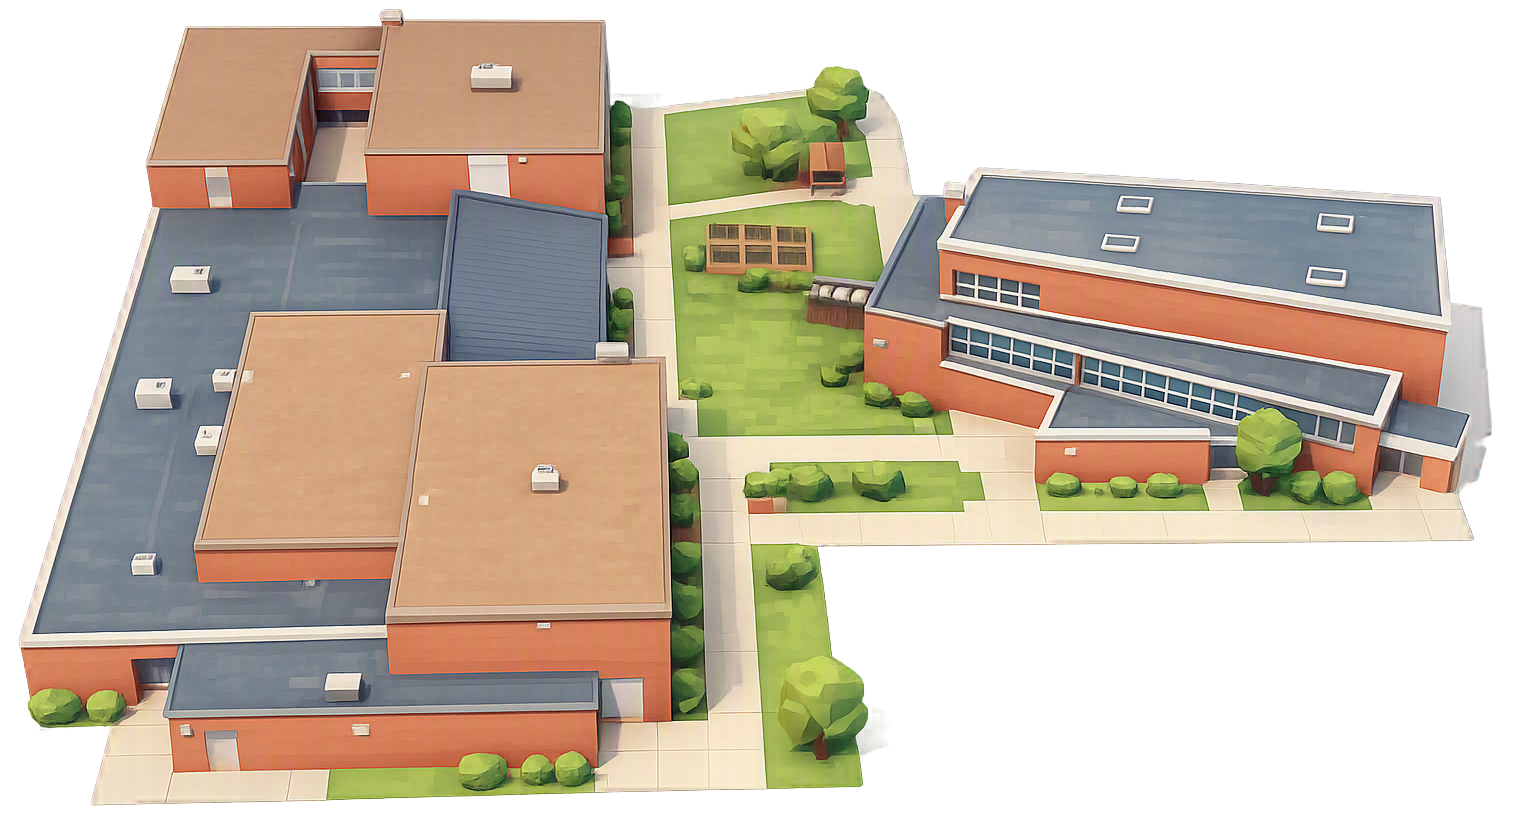
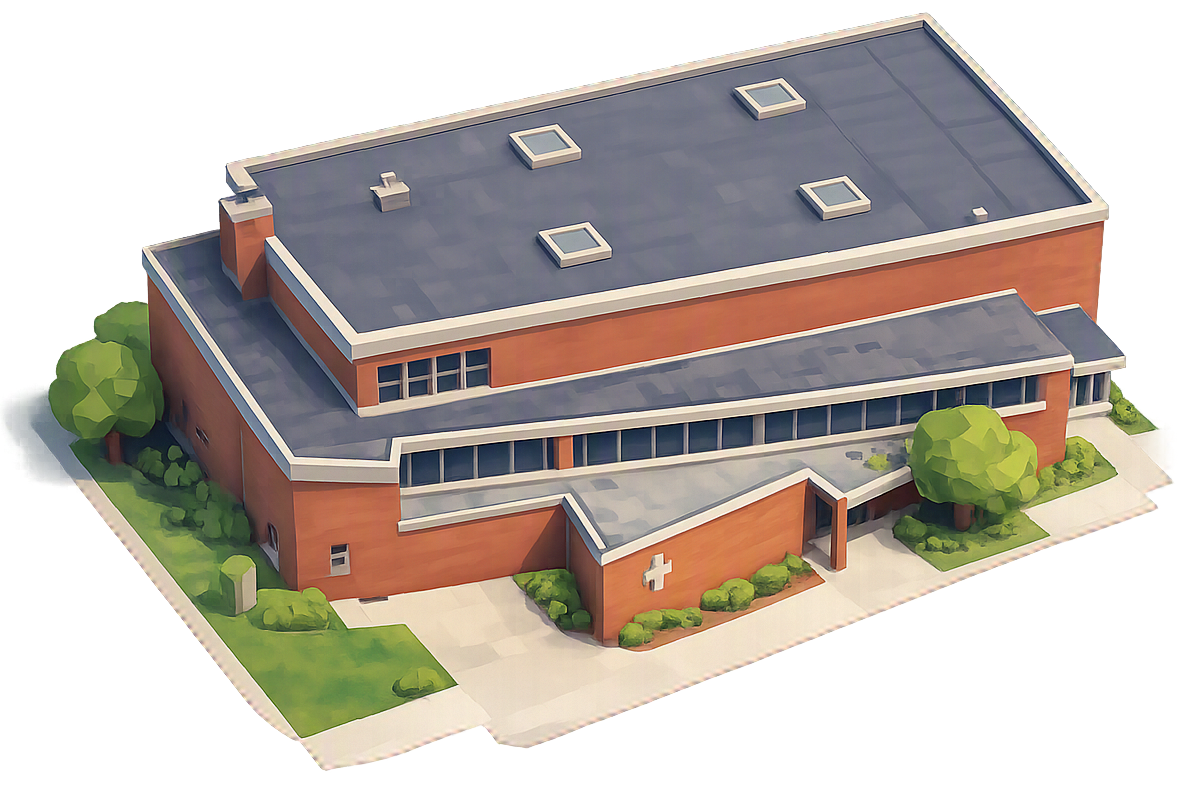
Added small tweaks

diff --git a/src/components/ChurchMap.jsx b/src/components/ChurchMap.jsx
@@ -1,4 +1,5 @@
 import { useEffect, useRef, useState } from 'react'
+import { createPortal } from 'react-dom'
 import { MapContainer, TileLayer, Marker, Tooltip, useMap } from 'react-leaflet'
 import L from 'leaflet'
 import { supabase } from '../supabaseClient'
@@ -162,7 +163,12 @@ function ChurchMarker({ church, onSelect }) {
 // Order matches DAY_LABELS' indices to whatever day_of_week convention
 // the mass_times table ends up using (0 = Sunday, matching JS
 // Date.getDay()) — see the architecture discussion in chat.
-const DAY_LABELS = ['Sunday', 'Monday', 'Tuesday', 'Wednesday', 'Thursday', 'Friday', 'Saturday']
+// Displayed Monday-first with Sunday at the bottom. DAY_INDEXES maps
+// each position here to its actual day_of_week value in the database
+// (0 = Sunday, matching JS's Date.getDay()) — the display order and
+// the storage order are intentionally different.
+const DAY_LABELS = ['Monday', 'Tuesday', 'Wednesday', 'Thursday', 'Friday', 'Saturday', 'Sunday']
+const DAY_INDEXES = [1, 2, 3, 4, 5, 6, 0]
 
 // iPadOS reports navigator.platform as 'MacIntel' just like a real Mac
 // — maxTouchPoints is what actually distinguishes the two, since a
@@ -223,28 +229,42 @@ function formatMonthYear(dateStr) {
 // keyed by day_of_week (0 = Sunday, matching DAY_LABELS and JS's
 // Date.getDay()) to an array of already-formatted time strings.
 function ChurchCard({ church, onClose, schedule, updatedAtLabel }) {
-  // Tracks which single time chip's note popover is toggled open via
-  // click (hover shows/hides independently, via CSS, regardless of
-  // this) — click support matters on touch devices, which have no
-  // hover state at all.
-  const [openNoteId, setOpenNoteId] = useState(null)
+  // The open note's id/text plus the viewport position to render its
+  // popover at, computed from the triggering element at the moment
+  // it opens. Visibility is driven entirely by this state now (click
+  // toggles it, hover sets/clears it via JS) rather than CSS :hover —
+  // touch devices apply :hover on tap and don't reliably clear it on
+  // a second tap, which was preventing the popover from closing.
+  const [openNote, setOpenNote] = useState(null)
+
+  function toggleNote(entry, wrapEl) {
+    if (!entry.notes) return
+    setOpenNote((current) => {
+      if (current?.id === entry.id) return null
+      const rect = wrapEl.getBoundingClientRect()
+      // Viewport coordinates, since the popover is portaled to
+      // document.body — position is independent of any scrolled
+      // ancestor, including the card's own overflow-y: auto.
+      return { id: entry.id, text: entry.notes, top: rect.top, left: rect.left + rect.width / 2 }
+    })
+  }
 
   // Closes the popover on a click anywhere outside a chip. Only
   // attached while one is actually open, and uses mousedown (fires
   // before the chip's own onClick) so clicking a different chip still
   // switches which note is open rather than fighting this handler.
   useEffect(() => {
-    if (openNoteId === null) return
+    if (!openNote) return
 
     function handleOutsideClick(e) {
       if (!e.target.closest('.church-card__time-chip-wrap')) {
-        setOpenNoteId(null)
+        setOpenNote(null)
       }
     }
 
     document.addEventListener('mousedown', handleOutsideClick)
     return () => document.removeEventListener('mousedown', handleOutsideClick)
-  }, [openNoteId])
+  }, [openNote])
 
   return (
     <div className="church-card-overlay" onClick={onClose}>
@@ -279,15 +299,32 @@ function ChurchCard({ church, onClose, schedule, updatedAtLabel }) {
           )}
 
           <div className="church-card__schedule">
-            {DAY_LABELS.map((day, dayIndex) => {
-              const times = schedule?.[dayIndex]
+            {DAY_LABELS.map((day, position) => {
+              const times = schedule?.[DAY_INDEXES[position]]
               return (
                 <div className="church-card__day-row" key={day}>
                   <span className="church-card__day-label">{day}</span>
                   <span className="church-card__day-times">
                     {times && times.length
                       ? times.map((entry) => (
-                          <span className="church-card__time-chip-wrap" key={entry.id}>
+                          <span
+                            className="church-card__time-chip-wrap"
+                            key={entry.id}
+                            onMouseEnter={(e) => {
+                              if (!entry.notes) return
+                              const rect = e.currentTarget.getBoundingClientRect()
+                              setOpenNote({
+                                id: entry.id,
+                                text: entry.notes,
+                                top: rect.top,
+                                left: rect.left + rect.width / 2,
+                              })
+                            }}
+                            onMouseLeave={() =>
+                              setOpenNote((current) => (current?.id === entry.id ? null : current))
+                            }
+                            onClick={(e) => toggleNote(entry, e.currentTarget)}
+                          >
                             <button
                               type="button"
                               className={
@@ -296,27 +333,10 @@ function ChurchCard({ church, onClose, schedule, updatedAtLabel }) {
                                   ? ' church-card__time-chip--accent'
                                   : '')
                               }
-                              onClick={() =>
-                                entry.notes &&
-                                setOpenNoteId((id) => (id === entry.id ? null : entry.id))
-                              }
                             >
                               {entry.text}
                               {entry.notes ? '*' : ''}
                             </button>
-                            {entry.notes && (
-                              <span
-                                role="tooltip"
-                                className={
-                                  'church-card__time-note' +
-                                  (openNoteId === entry.id
-                                    ? ' church-card__time-note--open'
-                                    : '')
-                                }
-                              >
-                                {entry.notes}
-                              </span>
-                            )}
                           </span>
                         ))
                       : '—'}
@@ -327,7 +347,7 @@ function ChurchCard({ church, onClose, schedule, updatedAtLabel }) {
           </div>
 
           <div className="church-card__footer">
-            Updated on {updatedAtLabel || '—'} from{' '}
+            Updated {updatedAtLabel || '—'} from{' '}
             <a
               href="https://masstimes.org/map?lat=41.589&lng=-93.62&SearchQueryTerm=Des%20Moines,%20Iowa"
               target="_blank"
@@ -338,6 +358,17 @@ function ChurchCard({ church, onClose, schedule, updatedAtLabel }) {
           </div>
         </div>
       </div>
+      {openNote &&
+        createPortal(
+          <div
+            role="tooltip"
+            className="church-card__time-note"
+            style={{ top: openNote.top, left: openNote.left }}
+          >
+            {openNote.text}
+          </div>,
+          document.body
+        )}
     </div>
   )
 }

diff --git a/src/styles.css b/src/styles.css
@@ -324,7 +324,7 @@ body {
   bottom: calc(100% - 35px);
   left: 50%;
   transform: translateX(-50%);
-  max-height: 300px;
+  max-height: 250px;
   max-width: 95%;
   width: auto;
   height: auto;
@@ -415,10 +415,6 @@ body {
   font-size: 16px;
 }
 
-.church-card__day-row:last-child {
-  border-bottom: none;
-}
-
 .church-card__day-label {
   font-weight: 600;
   color: var(--ink);
@@ -456,15 +452,16 @@ body {
   border-color: var(--accent);
 }
 
-/* Only rendered at all when a chip has a note, so this selector
-   never affects note-less chips. Shown on hover via CSS, and on
-   click via the --open modifier class (React-controlled) — the two
-   are independent, so touch devices without hover still work. */
+/* Portaled into document.body (see ChurchCard), so this is positioned
+   in fixed/viewport coordinates rather than relative to the chip —
+   that's what lets it escape the card's own overflow-y: auto clipping
+   instead of getting cut off near the scroll edges. `top`/`left` come
+   from the triggering chip's own getBoundingClientRect() at the
+   moment it opens. Only ever rendered in the DOM while open, so no
+   opacity/visibility toggling is needed here. */
 .church-card__time-note {
-  position: absolute;
-  bottom: calc(100% + 8px);
-  left: 50%;
-  transform: translateX(-50%);
+  position: fixed;
+  transform: translate(-50%, calc(-100% - 8px));
   width: max-content;
   max-width: 220px;
   padding: 8px 10px;
@@ -475,24 +472,16 @@ body {
   background: var(--card);
   border: 1px solid var(--line);
   border-radius: 8px;
-  box-shadow: 0 4px 12px rgba(0, 0, 0, 0.2);
-  opacity: 0;
-  visibility: hidden;
+  box-shadow: 0 4px 12px rgba(0, 0, 0, 0.3);
   pointer-events: none;
-  transition: opacity 0.15s ease;
-  z-index: 5;
-}
-
-.church-card__time-chip-wrap:hover .church-card__time-note,
-.church-card__time-note--open {
-  opacity: 1;
-  visibility: visible;
+  /* Above the card overlay (1000/1001) and the map (50) — this is a
+     sibling of the whole app now, courtesy of the portal. */
+  z-index: 2000;
 }
 
 .church-card__footer {
   margin-top: 16px;
   padding-top: 12px;
-  border-top: 1px solid var(--line);
   font-size: 12px;
   color: var(--ink-soft);
   text-align: center;

diff --git a/index.html b/index.html
@@ -4,6 +4,7 @@
     <meta charset="UTF-8" />
     <meta name="viewport" content="width=device-width, initial-scale=1.0" />
     <title>Daily Mass Des Moines</title>
+    <link rel="icon" href="/favicon.ico">
     <link rel="stylesheet" href="https://unpkg.com/leaflet@1.9.4/dist/leaflet.css" />
     <link rel="preconnect" href="https://fonts.googleapis.com" />
     <link href="https://fonts.googleapis.com/css2?family=Inter:wght@400;500;600&family=Lora:wght@500;600&display=swap" rel="stylesheet" />
